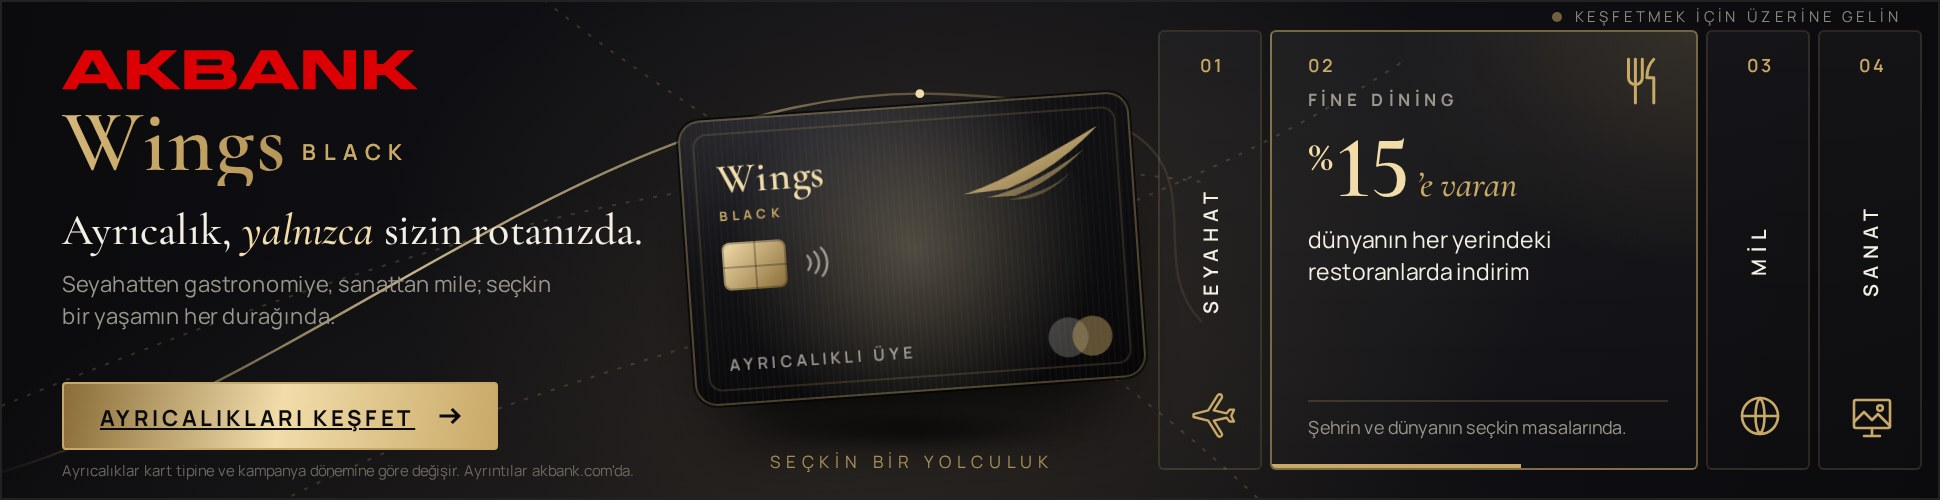
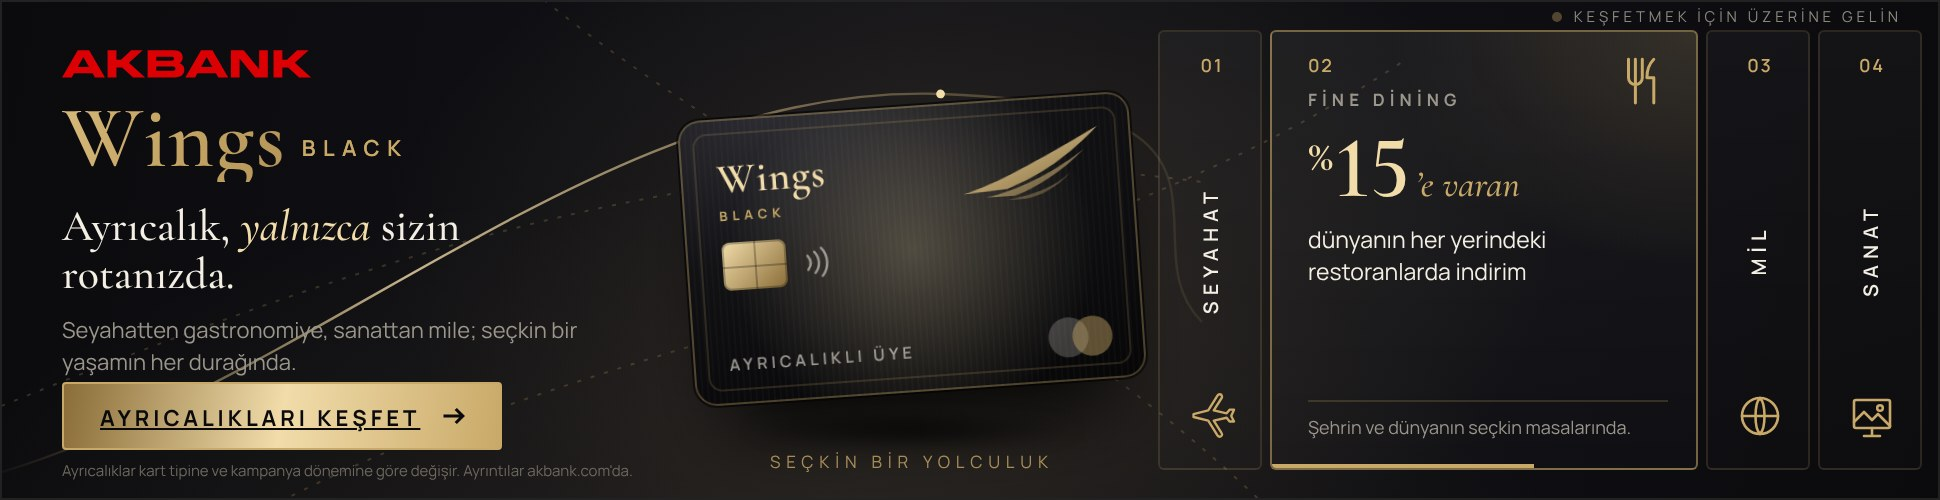
Wings masthead: Akbank logosu 14 px yüksekliğe indirildi, ekran görüntüleri yenilendi
Claude-Session: https://claude.ai/code/session_01SBsWX8VZYStptmQPZKGobW

diff --git a/akbank-wings/970x250/index.html b/akbank-wings/970x250/index.html
@@ -55,7 +55,7 @@
   .bank { display: flex; align-items: center; gap: 8px; font-size: 11px; letter-spacing: .28em; text-transform: uppercase; color: var(--mute); opacity: 0; transform: translateY(6px); transition: .6s ease .3s; }
   .bank i { width: 14px; height: 2px; background: var(--red); display: inline-block; }
   .bank b { color: var(--ivory); font-weight: 700; letter-spacing: .12em; }
-  .bank .logo { display: block; height: 20px; width: auto; }
+  .bank .logo { display: block; height: 14px; width: auto; margin-bottom: 4px; }
   .bank .logo svg { display: block; height: 100%; width: auto; }
   .wordmark { margin-top: 6px; font-family: var(--serif); font-weight: 600; font-size: 44px; line-height: .95; letter-spacing: .01em;
     background: linear-gradient(100deg, var(--gold-lo) 0%, var(--gold-hi) 40%, var(--gold) 60%, var(--gold-lo) 100%);
